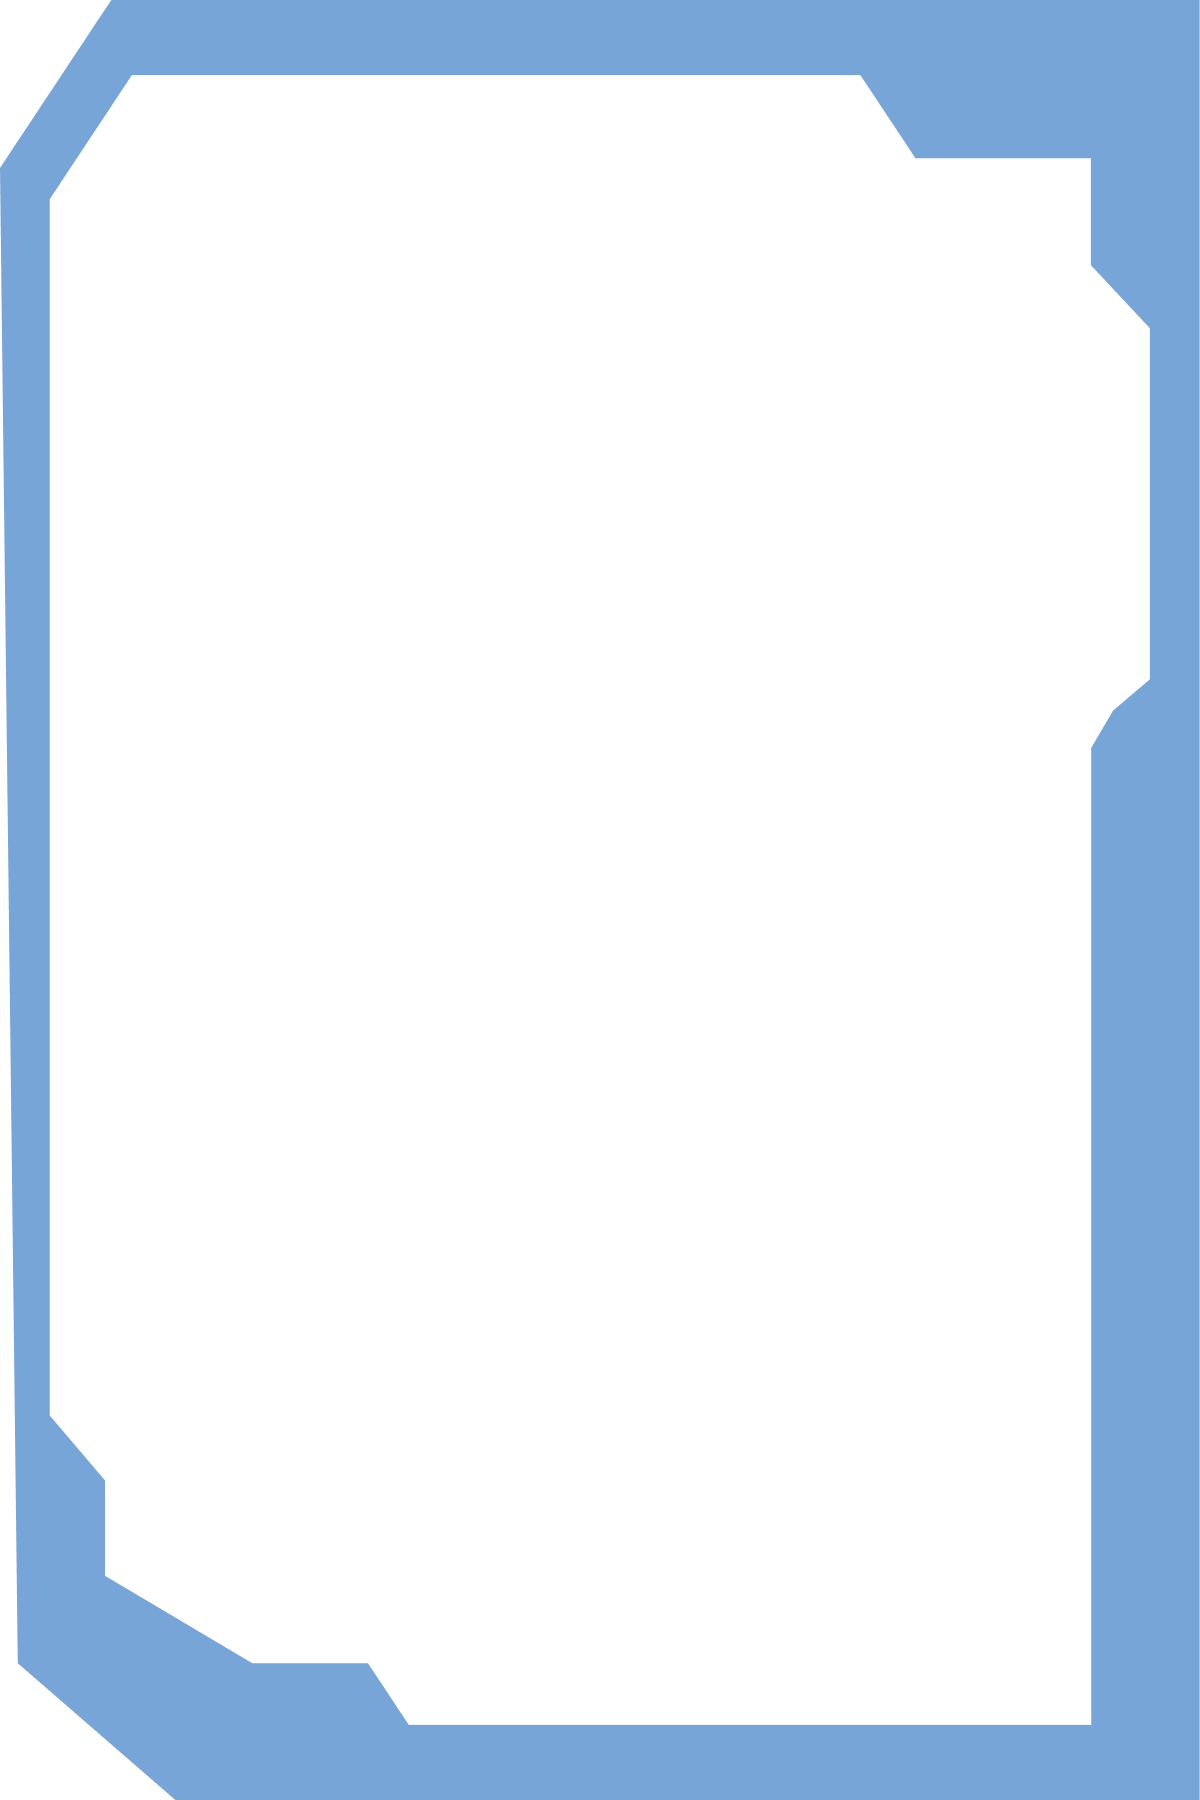
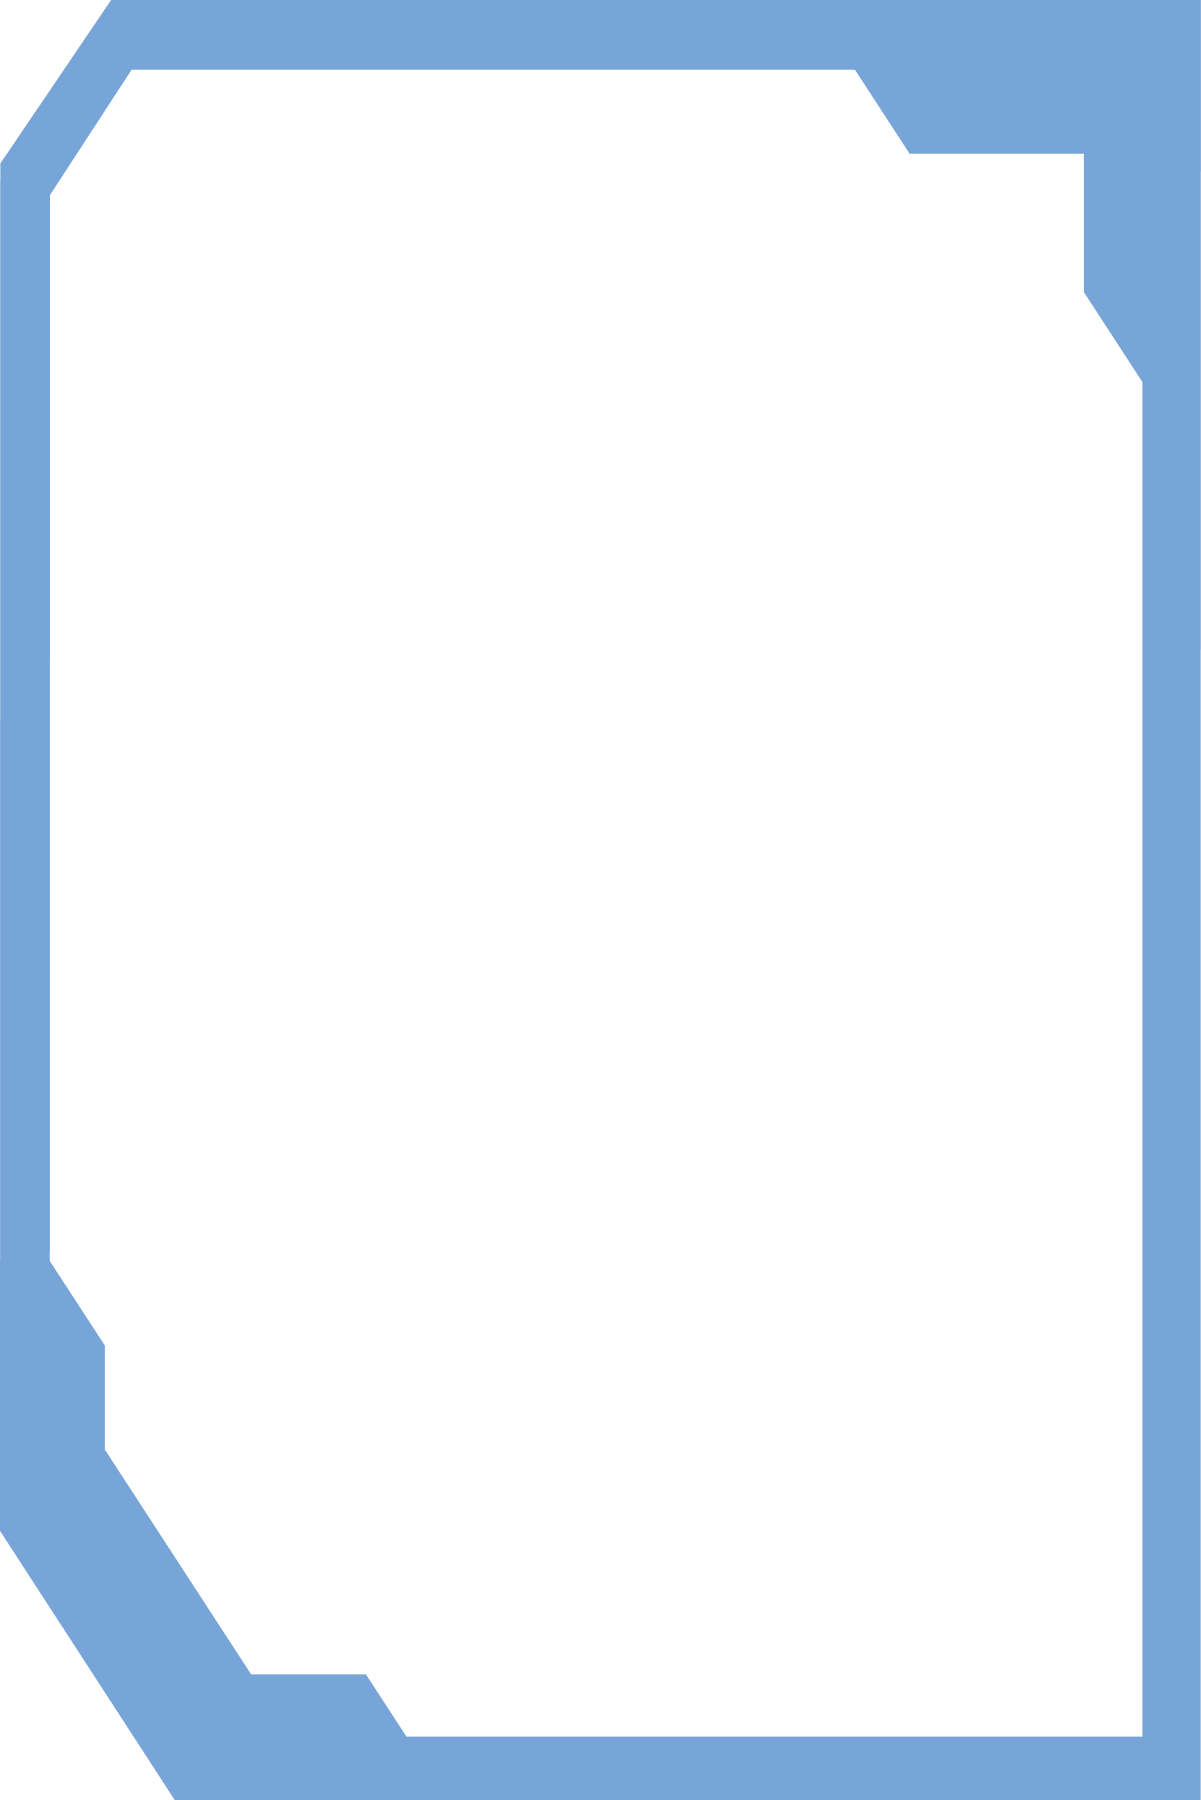
sss

diff --git a/src/screens/LoadingScreen.jsx b/src/screens/LoadingScreen.jsx
@@ -35,7 +35,7 @@ const LoadingScreen = () => {
 
           // Target size for inside image area
           const targetWidth = 1150;
-          const targetHeight = 1650;
+          const targetHeight = 1680;
 
           // Calculate aspect ratio preserving dimensions (cover mode)
           const imgAspect = outputImg.width / outputImg.height;
@@ -62,16 +62,17 @@ const LoadingScreen = () => {
           const y = (frameImg.height - targetHeight) / 2;
 
           // Draw output image with border radius on left side only
-          const radius = 120;
+          const topLeftRadius = 120;
+          const bottomLeftRadius = 300;
           ctx.save();
           ctx.beginPath();
-          ctx.moveTo(x + radius, y);
+          ctx.moveTo(x + topLeftRadius, y);
           ctx.lineTo(x + targetWidth, y);
           ctx.lineTo(x + targetWidth, y + targetHeight);
-          ctx.lineTo(x + radius, y + targetHeight);
-          ctx.arcTo(x, y + targetHeight, x, y + targetHeight - radius, radius);
-          ctx.lineTo(x, y + radius);
-          ctx.arcTo(x, y, x + radius, y, radius);
+          ctx.lineTo(x + bottomLeftRadius, y + targetHeight);
+          ctx.arcTo(x, y + targetHeight, x, y + targetHeight - bottomLeftRadius, bottomLeftRadius);
+          ctx.lineTo(x, y + topLeftRadius);
+          ctx.arcTo(x, y, x + topLeftRadius, y, topLeftRadius);
           ctx.closePath();
           ctx.clip();
           ctx.drawImage(outputImg, x + offsetX, y + offsetY, drawWidth, drawHeight);

diff --git a/src/screens/OutputScreen.jsx b/src/screens/OutputScreen.jsx
@@ -16,7 +16,7 @@ const OutputScreen = () => {
 
     // Generate QR code for the output image URL
     QRCode.toDataURL(outputImageUrl, {
-      width: 200,
+      width: 300,
       margin: 2,
       color: {
         dark: "#ffffff",
@@ -54,7 +54,6 @@ const OutputScreen = () => {
             width: "100%",
             height: "100%",
             paddingTop: "123px",
-            marginTop: "230px",
           }}
         >
 
@@ -63,8 +62,8 @@ const OutputScreen = () => {
             src={outputImageUrl}
             alt="Transformed"
             style={{
-              width: "662px",
-              height: "1029px",
+              width: "800px",
+              height: "1244px",
               display: "block",
               objectFit: "cover",
             }}
@@ -90,8 +89,8 @@ const OutputScreen = () => {
                 src={qrCodeDataUrl}
                 alt="QR Code"
                 style={{
-                  width: "180px",
-                  height: "180px",
+                  width: "270px",
+                  height: "270px",
                 }}
               />
             )}
